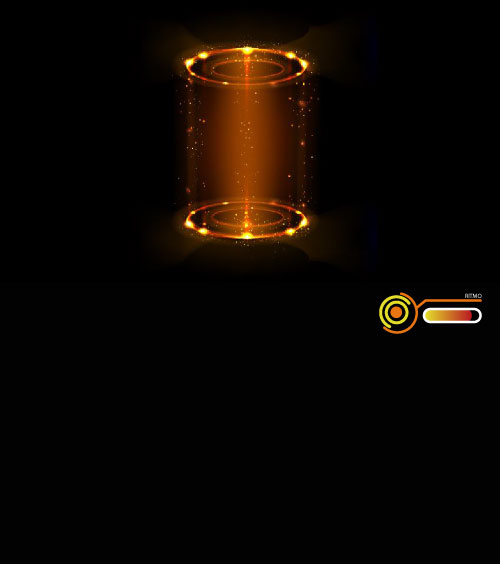
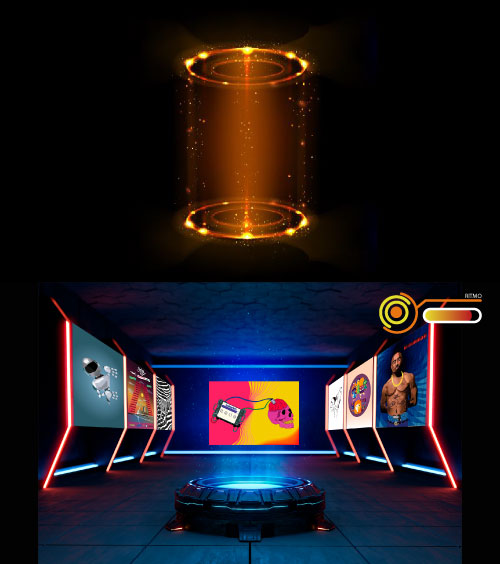
Agrego imagenes y cambio textos

diff --git a/index.html b/index.html
@@ -40,6 +40,16 @@
             </div>
         </div>
 
+
+        <div class="container">
+            <div class="row justify-content-center m-5">
+                <div class="col-md-8 col-12">
+                    <h2 class="text-uppercase bongo-naranja text-center">Introducción</h2>
+                </div>
+            </div>
+        </div>
+        
+
         <div class="container">
             <div class="row justify-content-center m-5">
                 <div class="col-md-8 col-12">
@@ -59,7 +69,7 @@
                 <div class="row ">
                     <div class="col-md-6 col-12">
                         <h2 class="text-uppercase bongo-naranja">Calentamiento</h2>
-                        <p class="fs-5">Previo a la presentación les llegará a los profesores un cajón peruano el cual
+                        <p class="fs-5">Previo a la presentación les llegará a los profesores un cajón de ritmo el cual
                             contendrá el merchandising y el material de agencia. Juegos y una tarjeta con un código QR
                             el cuál los llevará a un grupo de WhatsApp.</p>
                         <p class="fs-5">Comenzamos haciendo una breve introducción presentándonos como agencia.</p>
@@ -95,7 +105,7 @@
                             </div>
                         </div>
 
-                        <p class="fs-5">Luego por WhatsApp le envíamos el link de el universo BONGO en UNITY. Ya los introduciremos en nuestro mundo y la experiencia de nuestra agencia. Una vez dentro de la aplicación cada profesor podrá elegir un avatar. El cual podrán personalizar. </p>
+                        <p class="fs-5">Luego por WhatsApp le envíamos el link de el universo BONGO en UNITY. Ya los introduciremos en nuestro mundo y la experiencia de nuestra agencia. Una vez dentro de la aplicación cada profesor podrá elegir un personaje. El cual podrán personalizar. </p>
                     </div>
                     <div class="col-md-6 col-12 d-flex justify-content-center">
                         <img class="cajon-peruano" src="img/cajon-peruano.jpg" alt="Cajón peruano">
@@ -113,7 +123,7 @@
                 <div class="col-md-6 col-12">
                     <h2 class="text-uppercase bongo-naranja">Senda del ritmo</h2>
                     <p class="fs-5">
-                        Luego de la entrada en calor, pasamos a la senda del ritmo. Al encontrar la salida se reproduce el manifiesto. Al finalizar, la barra de ritmo aumentará y se podrá ver el vídeo del <strong>manifiesto</strong>.
+                        Las paredes se mueven cerrando y abriendo puertas, y el piso también se mueve, el  jugador deberá ser rápido para pasar las paredes cuando estás se cierren , cuando llegue al final se cargará un poquito la barra de ritmo, y se reproduce el <strong>manifiesto</strong> de Bongó. Pasaremos a la siguiente etapa
                     </p>
 
                     <!-- Button trigger modal -->
@@ -132,8 +142,8 @@
                                     <button type="button" class="btn-close" data-bs-dismiss="modal"
                                         aria-label="Close"></button>
                                 </div>
-                                <div class="modal-body bongo-black">
-
+                                <div class="modal-body bongo-black text-center">
+                                    <iframe width="560" height="315" src="https://www.youtube.com/embed/F5PYl2rhnxA" title="YouTube video player" frameborder="0" allow="accelerometer; autoplay; clipboard-write; encrypted-media; gyroscope; picture-in-picture" allowfullscreen></iframe>
                                 </div>
                             </div>
                         </div>
@@ -166,20 +176,20 @@
                 <div class="col-md-6 col-12">
                     <h2 class="text-uppercase bongo-naranja">Primer portal de ritmo físico - Manos </h2>
                     <p class="fs-5">
-                        Luego de ver el <strong class="bongo-naranja">manifiesto</strong>, volverán a nuestro recorrido y se podrá caminar hacia el portal físico manos.
+                        Luego de ver el <strong class="bongo-naranja">manifiesto</strong>, volverán al recorrido y se podrá caminar hacia el portal físico manos.
                     </p>
                     <p>
-                        <strong class="fw-bolder">Voz en off:</strong> Tendrás que mover tus manos para pasar al siguiente portal, el jugador deberá resolver una especie de guitar hero (a vibrar las cuerdas), cuando lo logren pasar , podrán ver <strong class="bongo-naranja">motion graphic</strong>, y la barra de ritmo del avatar aumentará.
+                        <strong class="fw-bolder">Voz en off:</strong> Tendrás que mover tus manos para pasar al siguiente portal, el jugador deberá resolver una especie de guitar hero (a vibrar las cuerdas), cuando lo logren pasar , podrán ver <strong class="bongo-naranja">diseño gráfico</strong>, y la barra de ritmo del personaje aumentará.
                     </p>
 
                     <!-- Button trigger modal -->
                     <button type="button" class="btn btn-primary my-4" data-bs-toggle="modal"
-                        data-bs-target="#motion-graphic">
-                        Ver Motion graphic
+                        data-bs-target="#disenio-grafico">
+                        Ver Diseño gráfico
                     </button>
 
                     <!-- Modal -->
-                    <div class="modal fade" id="motion-graphic" tabindex="-1" aria-labelledby="exampleModalLabel"
+                    <div class="modal fade" id="disenio-grafico" tabindex="-1" aria-labelledby="exampleModalLabel"
                         aria-hidden="true">
                         <div class="modal-dialog modal-lg">
                             <div class="modal-content">
@@ -189,7 +199,7 @@
                                         aria-label="Close"></button>
                                 </div>
                                 <div class="modal-body bongo-black">
-
+                                    Podrán navegar los trabajos de izquierda a derecha dentro de la habitación, proyectados en un círculo energético.
                                 </div>
                             </div>
                         </div>
@@ -216,20 +226,19 @@
                 <div class="col-md-6 col-12">
                     <h2 class="text-uppercase bongo-naranja">Segundo portal del ritmo físico - Piernas</h2>
                     <p class="fs-5">
-                        Luego de ver el <strong class="bongo-naranja">motion graphic</strong>, se volverá al recorrido y
-                        se podrá avanzar hacia el portal físico piernas.
+                        Luego de ver el <strong class="bongo-naranja">diseño gráfico</strong>, se volverá al recorrido y se podrá avanzar hacia el portal físico piernas.
                     </p>
                     <p>
-                        <strong class="fw-bolder">Voz en off:</strong> Se les pedirá a los jugadores que abrán el cajón del ritmo para desbloquearlo, dentro se encuentra un juego donde deberán usar las piernas para obtener la llave del portal, (tendrán que sacar de la caja una placa de madera, grabar un audio con el celular imitando un sonido que les enviaremos) cuando lo logré hacer desbloquea <strong class="bongo-naranja">página web, app y juegos</strong>.
+                        <strong class="fw-bolder">Voz en off:</strong> Se les pedirá a los jugadores que abrán el cajón del ritmo para desbloquearlo, dentro se encuentra un juego donde deberán usar las piernas para obtener la llave del portal, tendrán que sacar de la caja 2 placas de madera, atarlas a los pies y sentados, replicar el sonido que le enviaremos por whatsapp, cuando lo logré hacer desbloquea<strong class="bongo-naranja"> página web, app y juegos</strong>.
                     </p>
 
                     <button type="button" class="btn btn-primary my-4" data-bs-toggle="modal"
-                        data-bs-target="#disenio-grafico">
+                        data-bs-target="#página-web">
                         Ver Página web, app y juegos
                     </button>
 
                     <!-- Modal -->
-                    <div class="modal fade" id="disenio-grafico" tabindex="-1" aria-labelledby="exampleModalLabel"
+                    <div class="modal fade" id="página-web" tabindex="-1" aria-labelledby="exampleModalLabel"
                         aria-hidden="true">
                         <div class="modal-dialog modal-lg">
                             <div class="modal-content">
@@ -271,19 +280,19 @@
                 <div class="col-md-6 col-12">
                     <h2 class="text-uppercase bongo-naranja">Tercer portal de ritmo físico - Cabeza</h2>
                     <p class="fs-5">
-                        Luego visualizar <strong class="bongo-naranja">página web, app y juegos</strong>, se volverá al recorrido y se podrá avanzar con avatar hacia el portal de ritmo físicos - Cabeza
+                        Luego visualizar <strong class="bongo-naranja">página web, app y juegos</strong>, se volverá al recorrido y se podrá avanzar con el personaje hacia el portal de ritmo físicos - Cabeza
                     </p>
                     <p>
-                        <strong class="fw-bolder">Voz en off:</strong> El jugador deberá volver al cajón del ritmo (PENSAR juego que conste mover la cabeza, cuando lo logre obtendrá una clave que tenga que ver con la temática para desbloquear 3er portal). El jugador desbloquea, <strong class="bongo-naranja">diseño gráfico</strong>.
+                        <strong class="fw-bolder">Voz en off:</strong> El jugador deberá volver al cajón del ritmo. El jugador desbloquea, <strong class="bongo-naranja">Campañas</strong>.
                     </p>
 
                     <button type="button" class="btn btn-primary my-4" data-bs-toggle="modal"
-                        data-bs-target="#disenio-grafico">
-                        Ver Diseño gráfico
+                        data-bs-target="#campanias">
+                        Ver Campañas
                     </button>
 
                     <!-- Modal -->
-                    <div class="modal fade" id="disenio-grafico" tabindex="-1" aria-labelledby="exampleModalLabel"
+                    <div class="modal fade" id="campanias" tabindex="-1" aria-labelledby="exampleModalLabel"
                         aria-hidden="true">
                         <div class="modal-dialog modal-lg">
                             <div class="modal-content">
@@ -293,7 +302,7 @@
                                         aria-label="Close"></button>
                                 </div>
                                 <div class="modal-body bongo-black">
-
+                                    En la habitación encontrará una pantalla y la podrán navegar de izquierda a derecha , pasando por los distintos trabajos.
                                 </div>
                             </div>
                         </div>
@@ -318,20 +327,19 @@
             <div class="row">
                 <div class="col-md-6 col-12">
                     <h2 class="text-uppercase bongo-naranja">Cuarto portal de ritmo mental</h2>
-                    <p class="fs-5">Luego de visualizar los <strong class="bongo-naranja">diseño gráfico</strong>,se
-                        volverá al camino y podrá ir hacía el portal de ritmo mental</p>
+                    <p class="fs-5">Luego de visualizar los <strong class="bongo-naranja">campañas</strong>, se volverá al camino y podrá ir hacía el portal de ritmo mental</p>
                     <p>
-                        <strong class="fw-bolder">Voz en off:</strong> Consiste en resolver un acertijo , algunas pistas se encontrarán en el cajón del ritmo, cuando lo logren resolver , deberán introducir la resolución en el portal y se desbloquea <strong class="bongo-naranja">ilustración digital</strong>, la barra del ritmo está cerca de llenarse.
+                        <strong class="fw-bolder">Voz en off:</strong> Consiste en resolver un acertijo , algunas pistas se encontrarán en el cajón del ritmo, cuando lo logren resolver , deberán introducir la resolución en el portal y se desbloquea <strong class="bongo-naranja">motion graphic</strong>, la barra del ritmo está cerca de llenarse.
                     </p>
 
                     
                     <button type="button" class="btn btn-primary my-4" data-bs-toggle="modal"
-                        data-bs-target="#ilustración-digital">
-                        Ver Ilustración digital
+                        data-bs-target="#motion-graphic">
+                        Ver motion graphic
                     </button>
 
                     <!-- Modal -->
-                    <div class="modal fade" id="ilustración-digital" tabindex="-1" aria-labelledby="exampleModalLabel"
+                    <div class="modal fade" id="motion-graphic" tabindex="-1" aria-labelledby="exampleModalLabel"
                         aria-hidden="true">
                         <div class="modal-dialog modal-lg">
                             <div class="modal-content">
@@ -341,7 +349,7 @@
                                         aria-label="Close"></button>
                                 </div>
                                 <div class="modal-body bongo-black">
-
+                                    En la habitación encontrará una pantalla y la podrán navegar de izquierda a derecha , pasando por los distintos trabajos.
                                 </div>
                             </div>
                         </div>
@@ -377,23 +385,23 @@
 
                     <h2 class="text-uppercase bongo-naranja">Quinto portal de ritmo mental </h2>
                     <p class="fs-5">
-                        Luego de mirar las <strong class="bongo-naranja">ilustración digital</strong>, se volverá al
-                        camino con el avatar para avanzar hacía el último portal.
+                        Luego de mirar las <strong class="bongo-naranja">motion graphic</strong>, se volverá al
+                        camino para avanzar hacía el último portal.
                     </p>
                     <p>
                         <strong class="fw-bolder">Voz en off:</strong> Se les pedirá a los jugadores que vuelvan al
                         cajón del ritmo y tendrán que unir piezas que formen una imagen, cuando logren resolverlo se les
                         compartirá un tarareo y deberán introducir el sonido correcto en el portal. Se desbloquea
-                        <strong class="bongo-naranja">3D</strong>
+                        <strong class="bongo-naranja">ilustración digital</strong>
                     </p>
 
                     <button type="button" class="btn btn-primary my-4" data-bs-toggle="modal"
-                    data-bs-target="#3d">
-                    Ver 3D
+                    data-bs-target="#ilustracion-digital">
+                    Ver Ilustración digital
                 </button>
 
                 <!-- Modal -->
-                <div class="modal fade" id="ed" tabindex="-1" aria-labelledby="exampleModalLabel"
+                <div class="modal fade" id="ilustracion-digital" tabindex="-1" aria-labelledby="exampleModalLabel"
                     aria-hidden="true">
                     <div class="modal-dialog modal-lg">
                         <div class="modal-content">
@@ -403,7 +411,7 @@
                                     aria-label="Close"></button>
                             </div>
                             <div class="modal-body bongo-black">
-
+                                En las paredes de la habitación estarán los trabajos de ilustración exhibidos en forma de cuadros, podrán acercarse a cada uno y verlos en pantalla completa si hacen click encima de alguno.
                             </div>
                         </div>
                     </div>
@@ -430,18 +438,35 @@
 
                     <h2 class="text-uppercase bongo-naranja">Sexto Portal - Portal de ritmo mental y físico</h2>
                     <p class="fs-5">
-                        Al terminar de visualizar <strong class="bongo-naranja">3D</strong> se podrá culminar el
-                        recorrido con un último portal, el
-                        portal mental y físico.
+                        Al terminar de visualizar <strong class="bongo-naranja">ilustración digital</strong> se podrá culminar el recorrido con un último portal, el portal mental y físico.
                     </p>
 
                     <p>
-                        <strong class="fw-bolder">Voz en off:</strong> Consiste en que los jugadores copien los
-                        movimientos coordinados del avatar , cuando
-                        terminen se les compartirá la palabra correcta que desbloquea el último portal de campañas
-                        publicitarias, cuando termine , la barra del ritmo se llenará y el avatar volverá al lugar de
-                        origen agradecido de ayudarlo.
+                        <strong class="fw-bolder">Voz en off:</strong> Consiste en que los jugadores copien los movimientos coordinados del personaje, cuando terminen se les compartirá la palabra correcta que desbloquea el último portal de <strong class="bongo-naranja">3D</strong>, cuando termine , la barra del ritmo se llenará y el personaje volverá al lugar de origen agradecido de ayudarlo.
                     </p>
+
+                    <button type="button" class="btn btn-primary my-4" data-bs-toggle="modal"
+                    data-bs-target="#tresd">
+                    Ver 3D
+                </button>
+
+                <!-- Modal -->
+                <div class="modal fade" id="tresd" tabindex="-1" aria-labelledby="exampleModalLabel"
+                    aria-hidden="true">
+                    <div class="modal-dialog modal-lg">
+                        <div class="modal-content">
+                            <div class="modal-header">
+                                <h5 class="modal-title" id="exampleModalLabel">Modal title</h5>
+                                <button type="button" class="btn-close" data-bs-dismiss="modal"
+                                    aria-label="Close"></button>
+                            </div>
+                            <div class="modal-body bongo-black">
+                                Los trabajos estarán encima de una especie de escenario, podrán navegar a través de la habitación.
+                            </div>
+                        </div>
+                    </div>
+                </div>
+
                 </div>
                 <div class="col-md-6 col-12">
                     <img class="primer-portal" src="img/portal-06.jpg" alt="Sexto Portal">
